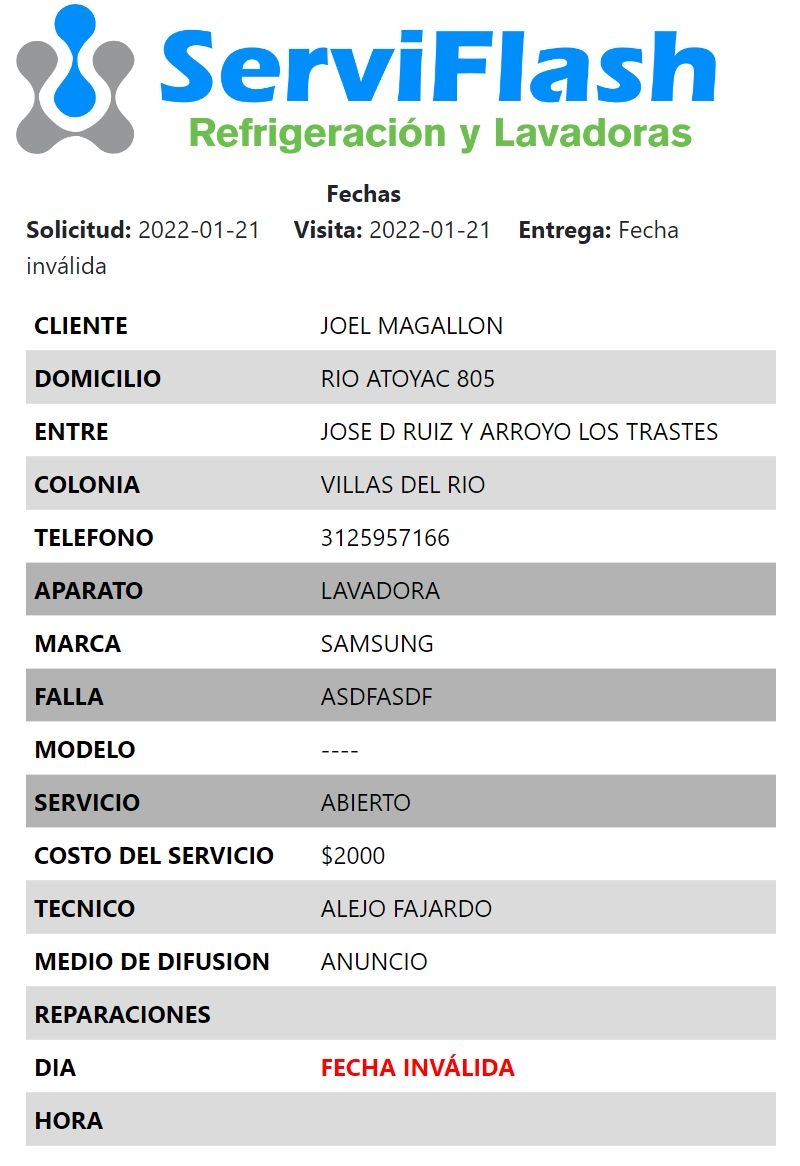
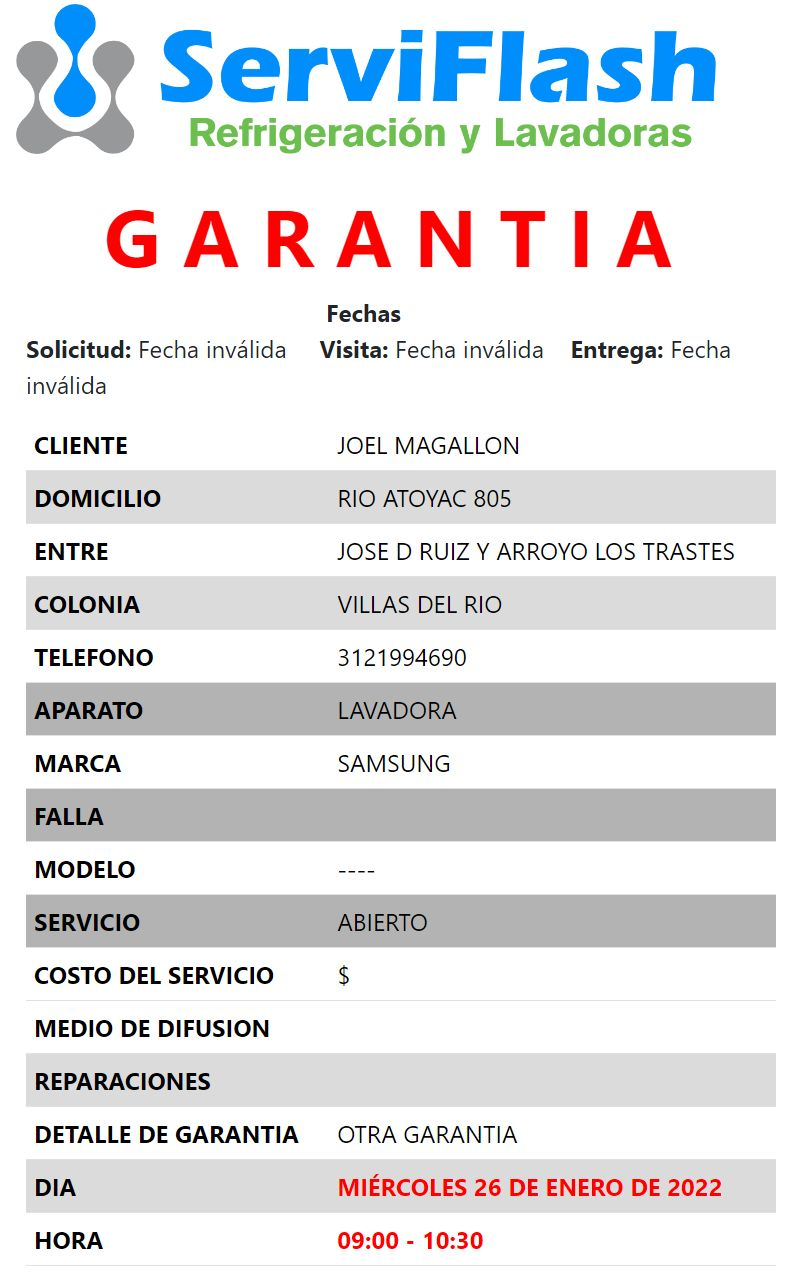
v_F

diff --git a/src/routes/index.js b/src/routes/index.js
@@ -51,14 +51,14 @@ router.get("/serviflash/notas:id/", isLoggedIn, async (req, res) =>{
 
         if (notass[0].NotaCerrada == 1) {
             
-                let notas = await pool.query("SELECT * FROM tbldetallenota WHERE IdNotas = ?",[notass[0].IdNotas])
+                let notas = await pool.query("SELECT * FROM tbldetallenota WHERE IdNotas = ? order by `Descripcion` asc",[notass[0].IdNotas])
                 let aa =5050
                 res.render("layouts/solo_notas",{notas, id, aa,orden})
                 return
             
         } else{
             let IdCliente=notass[0].IdCliente
-            let notas = await pool.query("SELECT * FROM tbldetallenota WHERE IdNotas = ?",[notass[0].IdNotas])
+            let notas = await pool.query("SELECT * FROM tbldetallenota WHERE IdNotas = ? order by `Descripcion` asc",[notass[0].IdNotas])
             let IdN= notas[0].IdNotas
             res.render("layouts/ver_notas",{notas, id, orden, IdN, IdCliente})
             return
@@ -277,7 +277,8 @@ router.get("/serviflash/servicios_pendientes", isLoggedIn, async (req, res) => {
             Calle:Nclienteg[0].DirCalle,
             Colonia:Nclienteg[0].DirColonia,
             FechaVisita:garantia[index].FechaVisita,
-            Hora:garantia[index].Hora
+            FechaGarantiaNew:garantia[index].FechaGarantiaNew,
+            Hora:garantia[index].HoraGarantia
         })
     }
 
@@ -291,6 +292,7 @@ router.get("/serviflash/servicios_pendientes", isLoggedIn, async (req, res) => {
             Calle:Nclienteg[0].DirCalle,
             Colonia:Nclienteg[0].DirColonia,
             FechaVisita:proceso[index].FechaVisita,
+            FechaRealizacion:proceso[index].FechaRealizacion,
             Hora:proceso[index].Hora
         })
     }

diff --git a/src/routes/pdf.js b/src/routes/pdf.js
@@ -284,7 +284,7 @@ module.exports={
         const equipo = await pool.query("SELECT * FROM tblequipos WHERE IdCliente = ? AND IdEquipo = ?", [datos[0].IdCliente, datos[0].IdEquipo])
         let notas = await pool.query("SELECT * FROM tblnotas WHERE IdOrdenServicio = ?",[idOrden])
         let garantia=notas[0].Garantia
-        notas = await pool.query("SELECT * FROM tbldetallenota WHERE IdNotas = ?",[notas[0].IdNotas])
+        notas = await pool.query("SELECT * FROM tbldetallenota WHERE IdNotas = ? order by `Descripcion` asc",[notas[0].IdNotas])
         let total=0
         for (let index = 0; index < notas.length; index++) {
             total+=notas[index].Importe

diff --git a/src/lib/passport.js b/src/lib/passport.js
@@ -13,6 +13,11 @@ passport.use("local.signin", new LocalStrategy({
         const pass = await helpers.login(password, user[0].Contrasena)
         if (pass) {
             await pool.query("INSERT INTO `tblmovimientos` (`IdUsuario`, `TipoMovimiento`, `Fecha`) VALUES (?, '0', current_timestamp())",[user[0].IdUsuario])
+            /*let fecha=new Date()
+            fecha=fecha.getFullYear()+"-"+fecha.getMonth()+"-"+fecha.getDate()
+            console.log(fecha)
+            await pool.query("UPDATE tblordenservicio SET Realizado = 255 WHERE Realizado = 100 AND FechaRealizacion< NOW()")*/
+
             done(null, user[0])
         }else{
             done(null, false)
